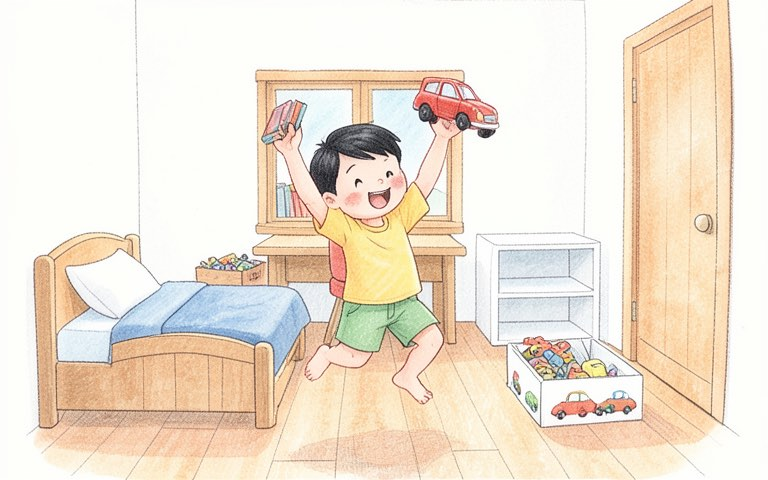
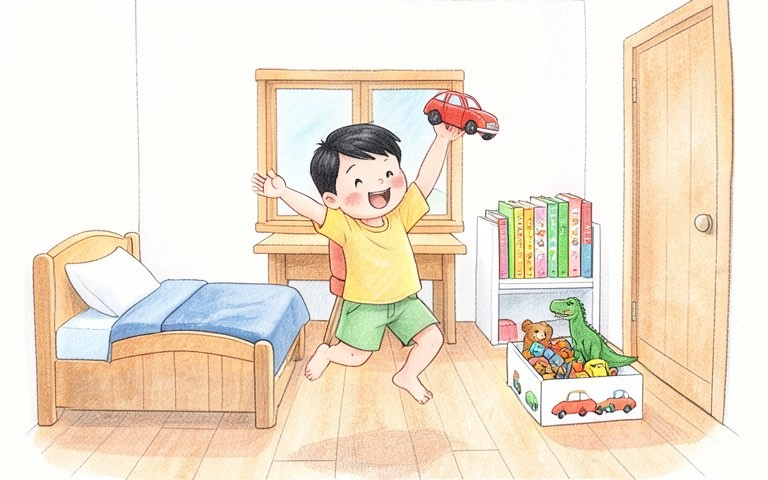
Clean Up!: tidy room carries through p10-20

diff --git a/server/scripts/pregen-img.js b/server/scripts/pregen-img.js
@@ -599,7 +599,7 @@ const SCENES = {
   '45-13': ['5-year-old|dad', 'the boy and his dad walk hand in hand toward the sea'], '45-14': ['5-year-old', 'the boy kneels on the sand and holds up one big spiral seashell in both hands'], '45-15': ['5-year-old', 'the boy stands at the edge of the water and spreads his arms wide with joy, seen from the front'],
   '46-0': ['Tim', 'Tim holds one big round bread bun in both hands'], '46-1': ['Tim', 'Tim holds up one small glass jar of red jam'], '46-2': ['Tim', 'Tim spreads red jam on the big round bun with a spoon at a small table'], '46-3': ['Tim', 'Tim sits on the soft green rug holding the bun with jam'], '46-4': ['Tim|dog', "the light brown dog runs fast across the room toward Tim, who sits on the green rug holding one round bread bun with red jam on top in his hand"], '46-5': ['dog', 'the light brown puppy stands on the floor, its short fur wet and shiny with water drops dripping off, a small puddle under it'], '46-6': ['dog', 'the wet light brown puppy wags its tail fast, happy, with motion lines by the tail and little water drops flying'], '46-7': ['Tim|dog', "the dog looks up at the bun in Tim's hand with its tongue out, Tim holds one round bread bun with shiny red jam on top high above his head"], '46-8': ['Tim', "Tim runs across the room holding one round bread bun with shiny red jam on top high in one hand"], '46-9': ['Tim|dog', "the dog runs after Tim across the room, Tim runs ahead holding one round bread bun with shiny red jam on top in one hand"], '46-10': ['Tim|jam on top', "Tim trips on the edge of the green rug and falls forward onto his hands and knees, surprised, the round bread bun with red jam on top flies out of his hand"], '46-11': ['Tim|jam on top', "Tim is falling forward onto the rug and reaches out with both hands to catch the round bread bun with red jam on top, but he misses: the bun flies away past his fingertips into the air, out of his reach, he looks surprised"], '46-12': ['Tim|dog', "seen from the side, the light brown dog stands on its four legs on the rug and looks back in surprise, one small round bread bun is stuck upside down on the middle of the dog's back, between its neck and its tail, with red jam squishing out, nothing in the dog's mouth, nothing on its head, Tim sits on the rug behind it with his mouth open in an oh-no face and his hands on his cheeks, only one dog, only one boy"], '46-13': ['dog|jam on top', "seen from the side, the light brown dog stands on its four legs and turns its head to look back at the round bread bun with red jam stuck on its back, red jam smeared on its fur, the dog looks puzzled with its ears down, only one dog in the whole picture"], '46-14': ['Tim', 'Tim sits on the rug and grins a big happy grin'], '46-15': ['Tim|dog', 'Tim kneels on the rug and hugs the small wet light brown dog with jam on its back, both smile, only one boy and one dog'],
   '47-0': ["6-year-old girl|Peanut|the bedroom:", "the girl stands alone in her bedroom and holds out her two open hands toward us, exactly one tiny golden brown hamster sits on her palms, she smiles proudly. Only one child, exactly one hamster in the whole picture"], '47-1': ["Peanut|the bedroom:", "seen from a little far away, Peanut the tiny golden brown hamster sits on the white desk next to one long yellow pencil, the pencil is twice as long as the hamster, a small paper tag shaped like a peanut lies beside him. No people, only one hamster"], '47-2': ["Peanut", "a close look: Peanut the tiny golden brown hamster sits on the white desk next to one long yellow pencil that is twice as long as his whole body; he holds one small black and white striped sunflower seed in his pink paws and nibbles it. No flowers. No people, only one hamster"], '47-3': ["6-year-old girl|Peanut", "the girl smiles and holds the tiny hamster on her open palm close to her face, his two small round pink-lined ears are easy to see. Only one child, only one hamster"], '47-4': ["Peanut", "a very close look at Peanut the tiny golden brown hamster's face, filling the picture: his two shiny round black bead eyes sparkle with little white highlights, pink nose and white whiskers, soft fur. Nothing else in the picture. Only one hamster"], '47-5': ["cage:|Peanut", "the dome-topped white wire hamster cage with a light blue plastic base stands on the white desk; everything is inside the cage on its blue floor: the tiny hamster, the small red plastic running wheel, the tiny wooden hut with a round door, the water bottle on the bars and the small yellow food bowl; nothing at all next to the cage, only one hamster"], '47-6': ["6-year-old girl|cage:|the bedroom:", "exactly one girl stands next to the white desk and spreads her arms wide beside the dome-topped white wire hamster cage with a light blue base to show how big it is; inside the cage are the small red running wheel, the tiny wooden hut and the tiny hamster. She is the only person in the whole picture, nobody else"], '47-7': ["cage:", "a close look into the dome-topped white wire hamster cage through its white bars: on its light blue floor the small red plastic running wheel stands empty, and the tiny wooden hut with a round door sits behind it. No hamster in this picture, no people"], '47-8': ["Peanut", "a big close-up taken from inside the hamster cage, low at the hamster's eye level on the light blue plastic cage floor covered with pale wood shavings; the hamster is big in the picture; only a few thin white wire bars show softly far behind him, there are no bars in front of him and we cannot see the outside of the cage: the red plastic running wheel, an open round wheel twice as tall as the hamster, stands upright on its stand; the tiny hamster is inside the wheel, running on the inner curved track with his little feet, the wheel turning under him, small curved motion lines along its rim. Only one hamster, only one wheel"], '47-9': ["Peanut", "a big close-up taken from inside the hamster cage, low at the hamster's eye level on the light blue plastic cage floor covered with pale wood shavings; the hamster is big in the picture; only a few thin white wire bars show softly far behind him, there are no bars in front of him and we cannot see the outside of the cage: the tiny hamster runs very fast inside the red running wheel, an open round wheel twice as tall as him; the wheel spins fast with blurred spokes and curved motion lines all around its rim, a little sweat drop flies off his head. Only one hamster, only one wheel"], '47-10': ["Peanut", "a big close-up taken from inside the hamster cage, low at the hamster's eye level on the light blue plastic cage floor covered with pale wood shavings; the hamster is big in the picture; only a few thin white wire bars show softly far behind him, there are no bars in front of him and we cannot see the outside of the cage: the tiny hamster sits next to a small empty yellow food bowl and looks into it with a sad hungry face, his paws on his round tummy. Only one hamster"], '47-11': ["Peanut", "a big close-up taken from inside the hamster cage, low at the hamster's eye level on the light blue plastic cage floor covered with pale wood shavings; the hamster is big in the picture; only a few thin white wire bars show softly far behind him, there are no bars in front of him and we cannot see the outside of the cage: the tiny hamster sits next to a small yellow food bowl full of black and white striped sunflower seeds and nibbles one striped seed held in his front paws, happy. No flowers. Only one hamster"], '47-12': ["Peanut", "a big close-up taken from inside the hamster cage, low at the hamster's eye level on the light blue plastic cage floor covered with pale wood shavings; the hamster is big in the picture; only a few thin white wire bars show softly far behind him, there are no bars in front of him and we cannot see the outside of the cage: the tiny hamster sits by a small yellow food bowl of striped sunflower seeds and stuffs a seed into his cheek with both front paws, one cheek already bulging. Only one hamster"], '47-13': ["Peanut", "a big close-up taken from inside the hamster cage, low at the hamster's eye level on the light blue plastic cage floor covered with pale wood shavings; the hamster is big in the picture; only a few thin white wire bars show softly far behind him, there are no bars in front of him and we cannot see the outside of the cage: the tiny hamster sits facing us with very fat puffy round cheeks full of seeds, wider than his head, a small yellow food bowl beside him. Only one hamster"], '47-14': ["Peanut", "a big close-up taken from inside the hamster cage, low at the hamster's eye level on the light blue plastic cage floor covered with pale wood shavings; the hamster is big in the picture; only a few thin white wire bars show softly far behind him, there are no bars in front of him and we cannot see the outside of the cage: the tiny hamster with very big puffy round cheeks stands up on his back legs and does a funny little dance with his front paws up, small happy music notes around him. Only one hamster"], '47-15': ["6-year-old girl|Peanut|the bedroom:", "the girl sits on her bed and gently holds the tiny hamster in her two cupped hands in front of her, smiling down at him. Only one child, only one hamster"], '47-16': ["6-year-old girl|Peanut", "the girl holds the tiny hamster in her cupped hands close to her cheek, her eyes closed, happy, the hamster is smaller than her hand, soft warm glow around them. Only one child, only one hamster"], '47-17': ["Peanut","a big close-up taken from inside the hamster cage, low at the hamster's eye level on the light blue plastic cage floor covered with pale wood shavings; the hamster is big in the picture; only a few thin white wire bars show softly far behind him, there are no bars in front of him and we cannot see the outside of the cage: the tiny hamster sits on the wood shavings looking very sleepy, his eyes half closed and drooping, giving a big yawn with his little mouth wide open and one front paw rubbing his eye, his body slumping a little; the small wooden hut with a round door is right behind him; soft warm evening light. Only one hamster"], '47-18': ["cage:|Peanut", "a close look through the white bars into the cage: the tiny wooden hut with a round door sits on the light blue floor, and the tiny hamster sleeps curled up just inside its round door, eyes closed, a little Z above him; the small red running wheel stands next to the hut. Only one hamster"], '47-19': ["6-year-old girl|cage:|the bedroom:", "at night in the bedroom with moonlight from the window and a small lamp on, the girl in lavender pajamas waves good night to the dome-topped white wire hamster cage on the white desk, smiling sleepily. Only one child"],
-  '48-0': ["7-year-old boy|the bedroom:","a wide view of the whole bedroom from the doorway, showing the mess in the room: a brown teddy bear, six colorful wooden blocks, a yellow toy truck and a green toy dinosaur lie on the floor in the middle, a pile of five picture books lies on the blue blanket of the bed, one red sock and one blue sock lie under the desk, the toy box and the bookshelf are still empty. The boy stands in the middle among the toys and scratches his head, embarrassed. Only one child"], '48-1': ["the bedroom:","a low close look at the middle of the bedroom floor: a brown teddy bear, six colorful wooden blocks, a yellow toy truck and a green toy dinosaur scattered on the light wooden floor; behind them the white open-top toy box with car pictures stands empty in front of the bookshelf. No people"], '48-2': ["the bedroom:","a close look at the bed along the left wall: a messy pile of five colorful picture books lies on the blue blanket, two of them open; the empty white bookshelf is far in the background. No people"], '48-3': ["the bedroom:","a low close look at the wooden desk under the window and its red-cushioned chair: on the floor right under the desk, between the four desk legs, lie one crumpled red sock and one crumpled blue sock, in the shadow of the desk. Only these two socks, nothing else on the floor. No people"], '48-4': ["7-year-old boy|his mom|the bedroom:","the wooden door on the right is open and his tall mom stands in the doorway with her hands on her hips, frowning at the mess; the mess in the room: a brown teddy bear, six colorful wooden blocks, a yellow toy truck and a green toy dinosaur lie on the floor in the middle, a pile of five picture books lies on the blue blanket of the bed, one red sock and one blue sock lie under the desk, the toy box and the bookshelf are still empty. The boy stands among the toys on the floor and looks down. Only two people, only one mom"], '48-5': ["7-year-old boy|his mom|the bedroom:","his tall mom stands just inside the open door and points with one finger at the toys on the floor while she talks; the boy stands in front of her among the toys and looks up, listening. The toys still lie on the floor and the books are still on the bed. Only two people, only one mom"], '48-6': ["7-year-old boy|his mom|the bedroom:","the boy smiles, nods and gives a thumbs-up to his mom, who smiles back from the open doorway; the toys still lie on the floor around him and the five books are still on the bed. Only two people, only one mom"], '48-7': ["7-year-old boy|the bedroom:","the boy bends down in the middle of the floor and picks up the brown teddy bear and two wooden blocks with both hands; the yellow toy truck, the green toy dinosaur and the other blocks still lie on the floor, the books are still on the bed. Only one child"], '48-8': ["7-year-old boy|the bedroom:","the one white open-top toy box with car pictures stays in its place on the floor in front of the low white bookshelf on the right; the boy stands right next to it and drops the teddy bear, the blocks, the yellow truck and the green dinosaur into it, the box is full of toys; the middle of the floor is clear now, the five books are still on the bed. Only one toy box in the room. Only one child"], '48-9': ["7-year-old boy|the bedroom:","the boy stands at the low white bookshelf on the right and puts the picture books on its shelf in a neat row, three books already stand on the shelf and two are in his hands; the bed is empty of books now, the toy box is full of toys, the floor is clear. Only one child"], '48-10': ["7-year-old boy|the bedroom:","the boy kneels on the floor in front of the desk below the window, reaches under the desk and holds up one red sock he just found; the blue sock still lies under the desk. The rest of the room is tidy. Only one child"], '48-11': ["7-year-old boy|the bedroom:","the boy still kneels in front of the desk, holding the red sock in one hand, and pulls out the blue sock from under the desk with his other hand. Only one child"], '48-12': ["7-year-old boy|the bedroom:","one single boy sits alone on the floor by the desk and holds a red sock in one hand and a blue sock in the other, side by side in front of his face, looking at them with a surprised face because they do not match. Only one boy in the whole picture, he appears only once, nobody else"], '48-13': ["7-year-old boy|toy car:|the bedroom:","the boy lies flat on his tummy on the floor right in front of the bed with the blue blanket and reaches one arm deep into the dark space under the bed; the small red toy car is under the bed in the shadow, his fingertips just touching it, his face peeking under the bed edge. the low white bookshelf on the right has a neat row of colorful picture books standing on its top shelf, and the one white toy box in front of it is full of toys, a brown teddy bear, a yellow truck, colorful blocks and a green dinosaur poking out of its top. He is the only person in the picture"], '48-14': ["toy car:","a low view at floor level into the dark space under the wooden bed: the small red toy car sits in the shadow under the bed, the edge of the blue blanket hangs down above it. Nothing else under the bed. No people"], '48-15': ["7-year-old boy|the bedroom:|toy car:","in the tidy bedroom the boy jumps for joy with both feet off the floor, holding the small red toy car up high in one hand; the toy box behind him is full of toys and the books stand on the bookshelf. Only one child"], '48-16': ["the bedroom:","a wide view of the whole bedroom from the doorway, now neat and clean: the bed is made with the blue blanket smooth, five books stand in a row on the top shelf of the low white bookshelf, all the toys are inside the one white toy box in front of the bookshelf, the desk is tidy with the red and blue socks folded on it, and the floor is completely empty and shiny, nothing at all on the floor. No people"], '48-17': ["7-year-old boy|his mom|the bedroom:","his tall mom stands in the open doorway on the right of the clean bedroom, smiling widely with her hands together; the boy stands in the middle of the clean floor and smiles back at her. Exactly two people, only one mom"], '48-18': ["7-year-old boy|his mom|the bedroom:","in the middle of the clean bedroom his tall mom kneels down on one knee on the floor and hugs the boy, looking at him with a proud, touched smile; the boy stands on his feet and hugs her back with a big happy smile; behind them the made bed and the low white bookshelf on the right has a neat row of colorful picture books standing on its top shelf, and the one white toy box in front of it is full of toys, a brown teddy bear, a yellow truck, colorful blocks and a green dinosaur poking out of its top; the floor is clear. Only two people, only one mom"], '48-19': ["7-year-old boy|the bedroom:","the boy lies on his back on top of his neatly made bed with the blue blanket, his arms behind his head, smiling happily; the clean room is around him: books on the shelf, toys in the toy box, a clear floor. He is on the bed. Only one child"],
+  '48-0': ["7-year-old boy|the bedroom:","a wide view of the whole bedroom from the doorway, showing the mess in the room: a brown teddy bear, six colorful wooden blocks, a yellow toy truck and a green toy dinosaur lie on the floor in the middle, a pile of five picture books lies on the blue blanket of the bed, one red sock and one blue sock lie under the desk, the toy box and the bookshelf are still empty. The boy stands in the middle among the toys and scratches his head, embarrassed. Only one child"], '48-1': ["the bedroom:","a low close look at the middle of the bedroom floor: a brown teddy bear, six colorful wooden blocks, a yellow toy truck and a green toy dinosaur scattered on the light wooden floor; behind them the white open-top toy box with car pictures stands empty in front of the bookshelf. No people"], '48-2': ["the bedroom:","a close look at the bed along the left wall: a messy pile of five colorful picture books lies on the blue blanket, two of them open; the empty white bookshelf is far in the background. No people"], '48-3': ["the bedroom:","a low close look at the wooden desk under the window and its red-cushioned chair: on the floor right under the desk, between the four desk legs, lie one crumpled red sock and one crumpled blue sock, in the shadow of the desk. Only these two socks, nothing else on the floor. No people"], '48-4': ["7-year-old boy|his mom|the bedroom:","the wooden door on the right is open and his tall mom stands in the doorway with her hands on her hips, frowning at the mess; the mess in the room: a brown teddy bear, six colorful wooden blocks, a yellow toy truck and a green toy dinosaur lie on the floor in the middle, a pile of five picture books lies on the blue blanket of the bed, one red sock and one blue sock lie under the desk, the toy box and the bookshelf are still empty. The boy stands among the toys on the floor and looks down. Only two people, only one mom"], '48-5': ["7-year-old boy|his mom|the bedroom:","his tall mom stands just inside the open door and points with one finger at the toys on the floor while she talks; the boy stands in front of her among the toys and looks up, listening. The toys still lie on the floor and the books are still on the bed. Only two people, only one mom"], '48-6': ["7-year-old boy|his mom|the bedroom:","the boy smiles, nods and gives a thumbs-up to his mom, who smiles back from the open doorway; the toys still lie on the floor around him and the five books are still on the bed. Only two people, only one mom"], '48-7': ["7-year-old boy|the bedroom:","the boy bends down in the middle of the floor and picks up the brown teddy bear and two wooden blocks with both hands; the yellow toy truck, the green toy dinosaur and the other blocks still lie on the floor, the books are still on the bed. Only one child"], '48-8': ["7-year-old boy|the bedroom:","the one white open-top toy box with car pictures stays in its place on the floor in front of the low white bookshelf on the right; the boy stands right next to it and drops the teddy bear, the blocks, the yellow truck and the green dinosaur into it, the box is full of toys; the middle of the floor is clear now, the five books are still on the bed. Only one toy box in the room. Only one child"], '48-9': ["7-year-old boy|the bedroom:","the boy stands at the low white bookshelf on the right and puts the picture books on its shelf in a neat row, three books already stand on the shelf and two are in his hands; the bed is empty of books now, the toy box is full of toys, the floor is clear. Only one child"], '48-10': ["7-year-old boy|the bedroom:","the boy kneels on the floor in front of the desk below the window, reaches under the desk and holds up one red sock he just found; the blue sock still lies under the desk. The rest of the room is tidy. Only one child"], '48-11': ["7-year-old boy|the bedroom:","the boy still kneels in front of the desk, holding the red sock in one hand, and pulls out the blue sock from under the desk with his other hand. Only one child"], '48-12': ["7-year-old boy|the bedroom:","one single boy sits alone on the floor by the desk and holds a red sock in one hand and a blue sock in the other, side by side in front of his face, looking at them with a surprised face because they do not match. Only one boy in the whole picture, he appears only once, nobody else"], '48-13': ["7-year-old boy|toy car:|the bedroom:","the boy lies flat on his tummy on the floor right in front of the bed with the blue blanket and reaches one arm deep into the dark space under the bed; the small red toy car is under the bed in the shadow, his fingertips just touching it, his face peeking under the bed edge. the low white bookshelf on the right has a neat row of colorful picture books standing on its top shelf, and the one white toy box in front of it is full of toys, a brown teddy bear, a yellow truck, colorful blocks and a green dinosaur poking out of its top. He is the only person in the picture"], '48-14': ["toy car:","a low view at floor level into the dark space under the wooden bed: the small red toy car sits in the shadow under the bed, the edge of the blue blanket hangs down above it. Nothing else under the bed. No people"], '48-15': ["7-year-old boy|the bedroom:|toy car:","in the tidy bedroom the boy jumps for joy with both feet off the floor, holding the small red toy car up high in one hand; the toy box behind him is full of toys and the books stand on the bookshelf. Only one child"], '48-16': ["the bedroom:","a wide view of the whole bedroom from the doorway, now neat and clean: the bed is made with the blue blanket smooth, five books stand in a row on the top shelf of the low white bookshelf, all the toys are inside the one white toy box in front of the bookshelf, the desk is tidy with the red and blue socks folded on it, and the floor is completely empty and shiny, nothing at all on the floor. No people"], '48-17': ["7-year-old boy|his mom|the bedroom:","his tall mom stands in the open doorway on the right of the clean bedroom, smiling widely with her hands together; the boy stands in the middle of the clean floor and smiles back at her. Exactly two people, only one mom"], '48-18': ["7-year-old boy|his mom|the bedroom:","in the middle of the clean bedroom, the boy STANDS upright on his two feet with a big happy smile; his tall mom KNEELS down on both knees on the floor in front of him so that her face is at the same height as his face, and she hugs him with both arms, looking at him with a proud, touched smile. The mom is the one kneeling; the boy is the one standing. Behind them the made bed and the low white bookshelf on the right has a neat row of colorful picture books, and the one white toy box in front of it is full of toys. Only two people, only one mom"], '48-19': ["7-year-old boy|the bedroom:","the boy lies on his back on top of his neatly made bed with the blue blanket, his arms behind his head, smiling happily; the clean room is around him: books on the shelf, toys in the toy box, a clear floor. He is on the bed. Only one child"],
   '49-0': ['Amy|Ben', "on the sunny sidewalk, Ben waves at Amy, who is bending over and looking around in the grass of the front yard. Only two children, no ball in sight"], '49-1': ['Amy|Ben', "Amy kneels and looks under a round green bush in the yard with a worried face, Ben watches her. Only two children, no ball in sight"], '49-2': ['Amy|Ben|ball:', "Ben holds up one black and white soccer ball he found by the hedge and asks Amy, she turns to him with wide eyes. Only two children, only one ball"], '49-3': ['Amy|Ben|ball:', "Amy takes the black and white soccer ball from Ben with both hands and smiles happily, saying thank you. Only two children, only one ball"], '49-4': ['Amy|Ben|ball:', "Ben asks Amy a question with a curious smile, Amy holds the soccer ball under her arm. Only two children, only one ball"], '49-5': ['Amy|ball:', "Amy hugs the black and white soccer ball to her chest with a big smile, little hearts around her. Only one child, only one ball"], '49-6': ['Amy|Ben|ball:', "Amy bounces the soccer ball on her knee and asks Ben with a grin, Ben watches with empty hands. Only two children, only one ball"], '49-7': ['Amy|Ben|ball:', "Ben smiles, nods and looks around with his hands open, asking where, Amy holds the soccer ball. Only two children, only one ball"], '49-8': ['Amy|Ben|ball:', "Amy points down the sidewalk toward the park and they start to walk together, Amy carries the ball under her arm. Only two children, only one ball"], '49-9': ['Amy|Ben|the park:', "in the green park, Ben asks Amy a question with a curious face, Amy holds the soccer ball. No watch on Ben's wrist. Only two children, only one ball"], '49-10': ['Amy|Ben|the park:', "Amy points up at the round white clock on the tall green post, its two hands show three o'clock, no numbers on it, Ben looks up too. Only two children"], '49-11': ['Amy|Ben|the park:', "on the lawn, Amy looks around with her hand above her eyes asking who has the ball, Ben stands with the black and white soccer ball at his feet. Only two children, only one ball"], '49-12': ['Amy|Ben|the park:', "Ben raises one hand, the black and white soccer ball at his feet, Amy waves both arms at him from across the grass, asking him to kick it to her. Only two children, only one ball"], '49-13': ['Amy|Ben|the park:', "Ben kicks the soccer ball across the grass toward Amy, the ball rolls fast with motion lines, Amy gets ready. Only two children, only one ball"], '49-14': ['Amy|Ben|the park:', "Amy kicks the ball into the small white soccer goal, the net bulges, Ben jumps and cheers behind her. Only two children, only one ball"], '49-15': ['Amy|Ben|the park:', "Amy and Ben give each other a high five on the lawn, both grinning. Only two children"], '49-16': ['Amy|Ben|the park:', "Ben looks at Amy, who is breathing hard with her hands on her knees, sweat drops on her face. Only two children"], '49-17': ['Amy|Ben|the park:', "Amy and Ben sit on the grass under the tall tree, tired and smiling, Amy wipes the sweat off her forehead and fans her face. Only two children"], '49-18': ['Amy|Ben|the park:', "Ben hands Amy one blue water bottle, Amy takes it with a thankful smile, Ben holds his own green water bottle. Only two children"], '49-19': ['Amy|Ben|the park:', "in the low orange evening sun, Amy and Ben wave goodbye to each other at the edge of the park, Amy holds the black and white soccer ball. Only two children, only one ball"],
   '50-0': ['7-year-old girl|the baker|the bakery:', "the girl walks in through the glass door of the bakery, the baker behind the glass counter smiles and greets her. Only two people"], '50-1': ['7-year-old girl|the baker|the bakery:', "the girl stands in front of the glass counter and points at the bread on the wooden shelves, the baker listens. Only two people"], '50-2': ['7-year-old girl|the baker|the bakery:', "the baker behind the counter holds out both hands toward the shelves of bread, asking with a smile, the girl looks. Only two people"], '50-3': ['7-year-old girl|the baker|the bakery:', "the girl presses one finger gently into a soft round loaf on the counter, it squishes softly, she smiles. Only two people"], '50-4': ['7-year-old girl|the baker|the bakery:', "the baker holds out one round soft golden loaf of bread to the girl over the counter. Only two people"], '50-5': ['7-year-old girl|the baker|the bakery:', "the girl looks at the round loaf in the baker's hands and asks with one finger on her chin. Only two people"], '50-6': ['the baker|the bakery:', "the tall baker smiles and holds up one hand with two fingers up, the round loaf on the counter. Only one person, no children"], '50-7': ['7-year-old girl|the baker|the bakery:', "the girl stands on her toes and looks into the glass counter, the baker looks at her. Only two people"], '50-8': ['7-year-old girl|the baker|the bakery:', "the baker points to a tray of round cookies on the small cookie table at the far end of the bakery, the girl turns to look. Only two people"], '50-9': ['7-year-old girl|the bakery:', "the girl leans close to the tray of round golden cookies with chocolate chips and looks at them with wide eyes. Only one person"], '50-10': ['the baker|the bakery:', "the tall baker holds the tray of round cookies and smiles with his eyes closed, a little sparkle of sweetness. Only one person, no children"], '50-11': ['7-year-old girl|the baker|the bakery:', "the girl points at one cookie on the tray and asks the baker politely. Only two people"], '50-12': ['7-year-old girl|the baker|the bakery:', "the baker puts one round cookie on the counter on a small napkin, the girl reaches for it. Only two people"], '50-13': ['7-year-old girl|the bakery:', "the girl bites one round chocolate chip cookie with her eyes closed, very happy, crumbs on her chin. Only one person"], '50-14': ['7-year-old girl|the baker|the bakery:', "the girl holds up four fingers, the baker puts round cookies into a small plain brown paper bag. Only two people"], '50-15': ['7-year-old girl|the baker|the bakery:', "the baker puts the small plain paper bag on the counter and asks, the girl picks it up. Only two people"], '50-16': ['7-year-old girl|the bakery:', "the girl hugs the plain paper bag of cookies to her chest and smiles warmly, a small red heart floats above her. Only one person"], '50-17': ['7-year-old girl|the baker|the bakery:', "the girl talks happily with the paper bag in her arms, a small thought bubble shows her mom and a birthday cake, the baker listens. Only two people"], '50-18': ['7-year-old girl|the baker|the bakery:', "the tall baker claps his hands and smiles widely behind the counter, the girl smiles back. Only two people, only one baker"], '50-19': ['7-year-old girl|the baker|the bakery:', "the girl waves goodbye at the glass bakery door, holding her paper bag, the baker waves back from the counter. Only two people"],
   '51-0': ["the snail:|the garden:", "the little snail sits on a green leaf at the start of the stone path in the big green garden, the garden is huge around it. Only one snail"], '51-1': ["the snail:", "a close look at the little snail with its round brown spiral shell with light stripes, sitting on a leaf. Only one snail"], '51-2': ["the snail:", "a close look at the snail's soft shiny wet light beige body and two small eye stalks on a leaf, a drop of dew beside it. Only one snail"], '51-3': ["the snail:|the garden:", "the snail crawls very slowly on the gray stone path, leaving a thin shiny trail behind it, a tiny dotted line showing how slow. Only one snail"], '51-4': ["the snail:|the garden:", "the small snail on the path looks up in wonder, one big tall red flower stands far away at the other end of the garden. Only one snail, only one red flower"], '51-5': ["the garden:", "a close look at the one tall pretty red flower on its long green stem with green leaves, swaying gently in the sunshine. No animals"], '51-6': ["the snail:|the garden:", "a wide view of the garden: the tiny snail in front on the stone path and the one red flower very small far away at the end of the long winding path. Only one snail"], '51-7': ["the snail:|the rabbit:|the garden:", "the white rabbit runs by on the path, the little snail, much smaller than the rabbit's foot, looks up at it. Only one snail, only one rabbit"], '51-8': ["the rabbit:|the garden:", "the white rabbit leaps high in the air, her long strong back legs stretched out, speed lines. Only one rabbit"], '51-9': ["the snail:|the rabbit:|the garden:", "the white rabbit hops far ahead on the path and looks back laughing, the tiny snail is far behind. Only one snail, only one rabbit"], '51-10': ["the snail:|the garden:", "the snail keeps crawling forward on the stone path with a determined face, looking straight ahead at the far red flower. Only one snail"], '51-11': ["the garden:", "a big bright hot sun high in the blue sky above the garden, heat waves in the air. No animals, only one sun"], '51-12': ["the garden:", "tall dry yellow grass in the hot garden, seen from close to the ground, the grass blades look like a forest. No animals"], '51-13': ["the snail:|the garden:", "the tired snail crawls slowly through the tall dry yellow grass with little sweat drops, its eyes half closed but still moving on. Only one snail"], '51-14': ["the garden:", "dark gray clouds fill the sky above the garden, the light gets dim, leaves start to blow. No animals"], '51-15': ["the garden:", "heavy cold rain pours down on the garden, big raindrops and puddles on the stone path. No animals"], '51-16': ["the snail:|the garden:", "the happy snail stretches its head and eye stalks up into the falling rain, smiling with its eyes closed, raindrops bouncing off its shell. Only one snail"], '51-17': ["the garden:", "smooth wet shiny ground on the garden path after the rain, small shining puddles, drops on the leaves. No animals"], '51-18': ["the snail:|the garden:", "the little snail slides faster along the smooth wet path, a long shiny trail behind it, little speed lines. Only one snail"], '51-19': ["the snail:|the garden:", "the small snail arrives at the bottom of the one tall red flower and looks up at it happily. Only one snail, only one red flower"], '51-20': ["the garden:", "a close look at the soft red petals of the tall flower with sparkling water drops on them. No animals"], '51-21': ["the snail:", "the little snail rests happily on one big red flower petal, smiling with its eyes closed, the snail is much smaller than the flower. Only one snail"],
